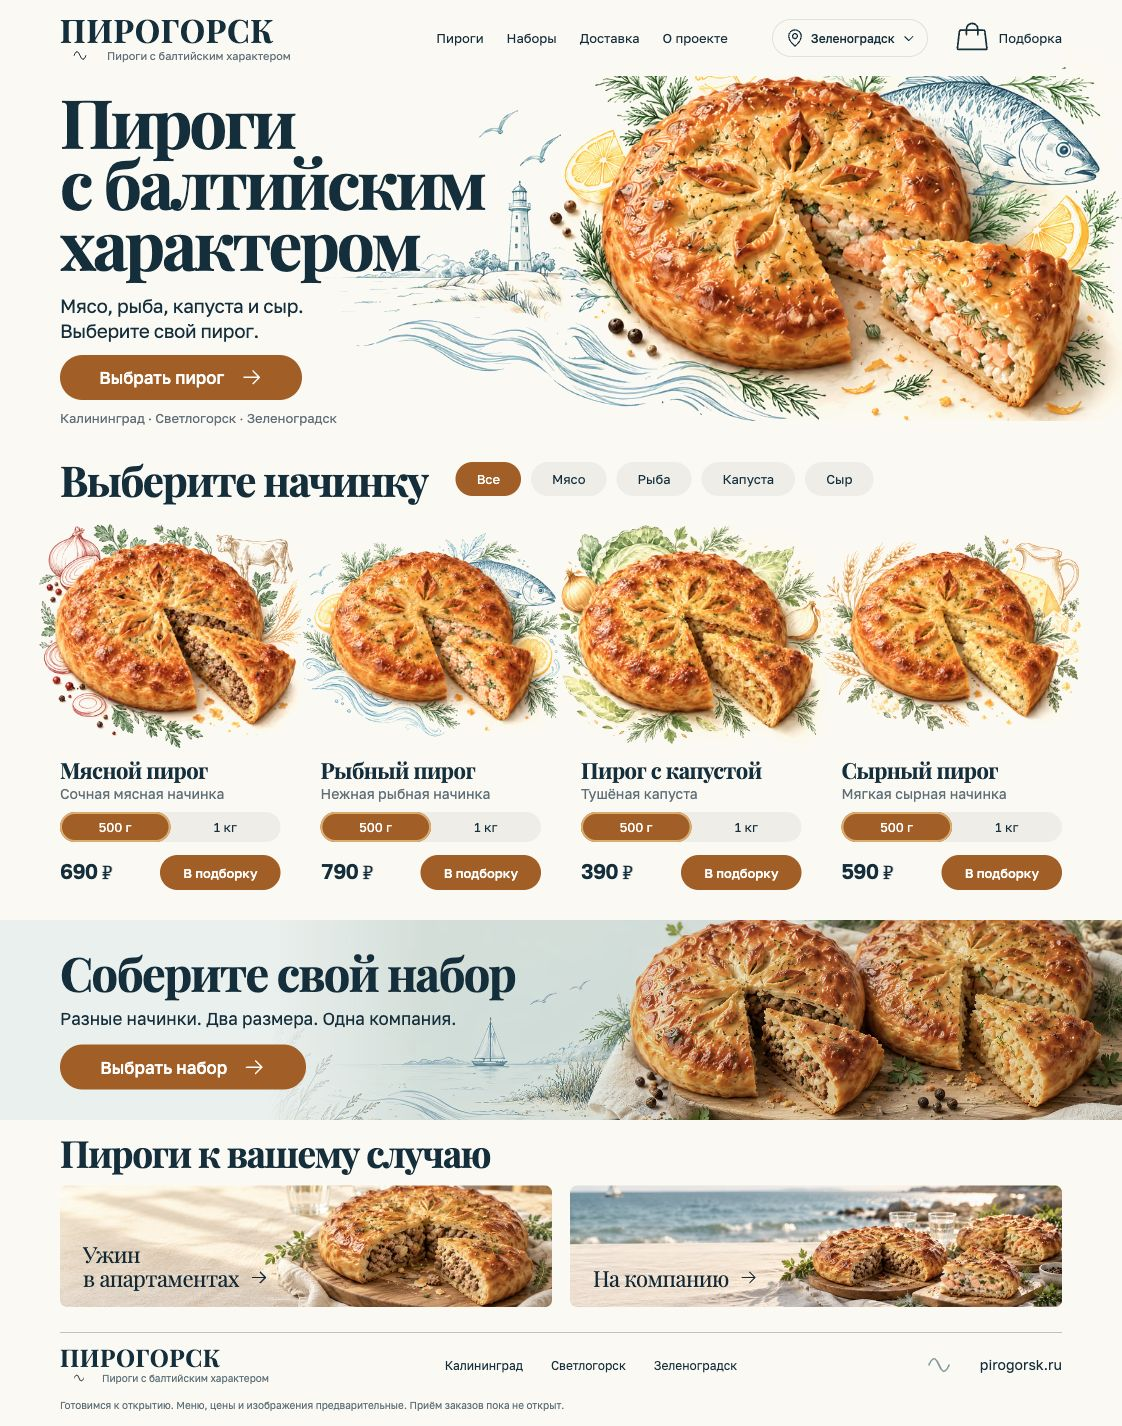
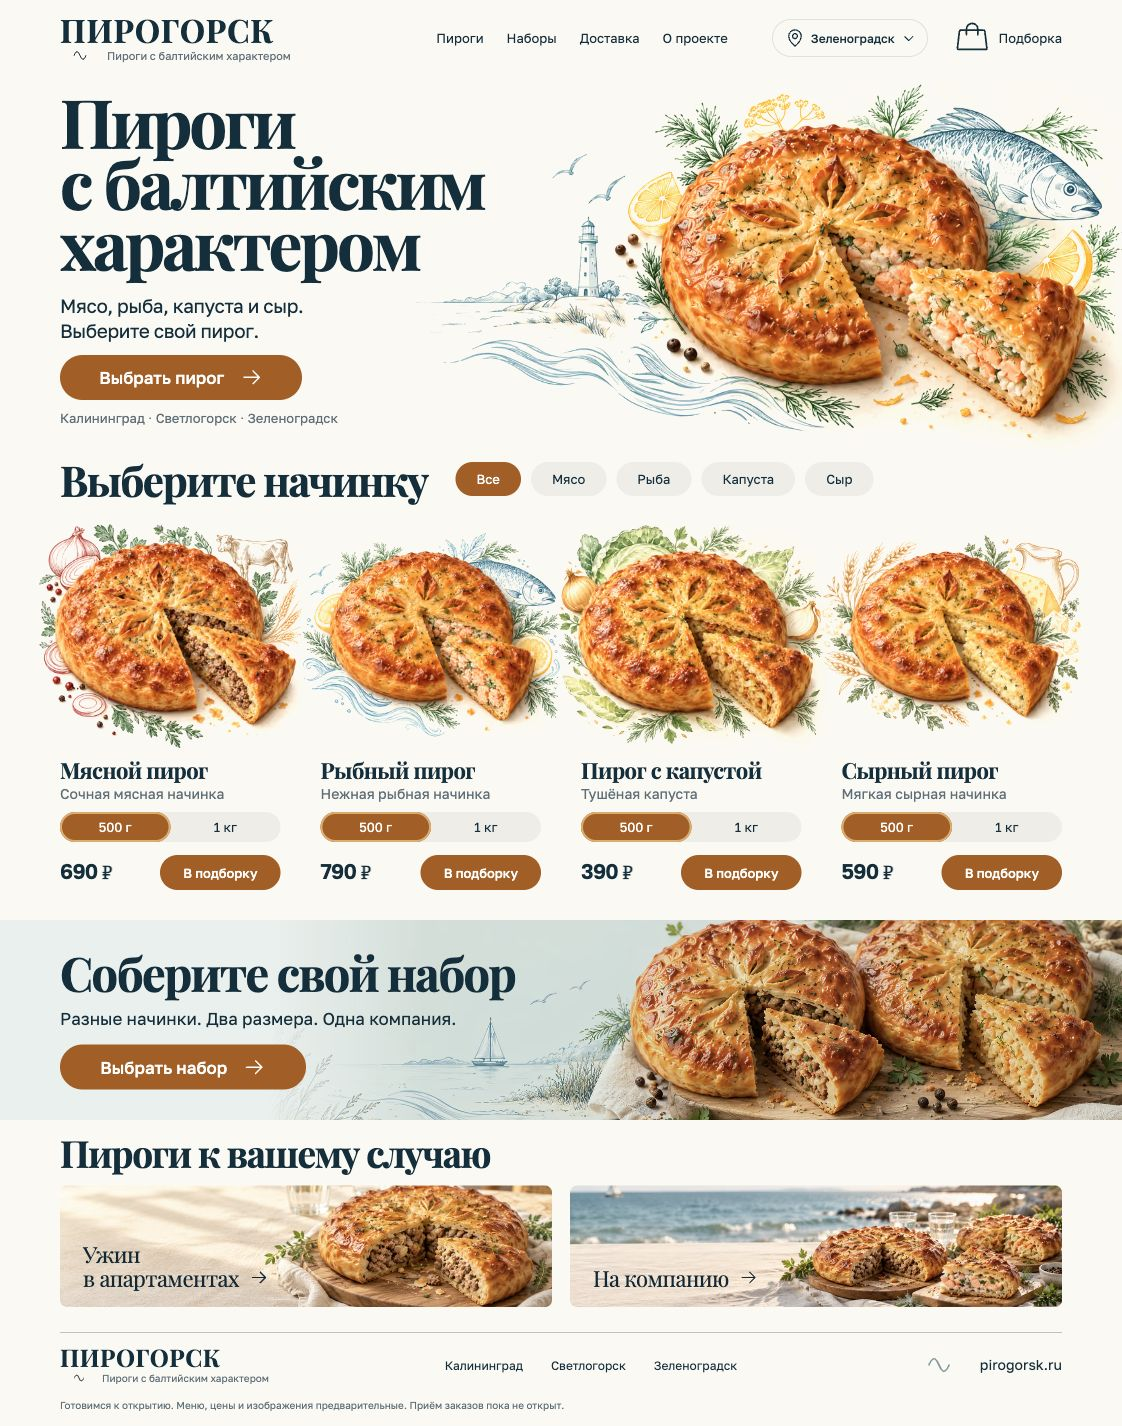
Keep hero pie fully visible across desktop sizes

Changed region(s): [[0.3119, 0.0309, 0.9982, 0.3086], [0.2807, 0.5863, 0.3431, 0.6171], [0.2496, 0.2777, 0.2807, 0.3086]]

diff --git a/src/styles/global.css b/src/styles/global.css
@@ -6,7 +6,7 @@
 :root{--paper:#fbf9f4;--ink:#082f3c;--muted:#5b7079;--amber:#ad5a12;--amber-hover:#994a10;--soft:#f0ede7;--line:#e3e0d8;--sea:#e9f0ed;--serif:Playfair,Georgia,'Times New Roman',serif;--sans:Golos,Arial,sans-serif;color:var(--ink);background:var(--paper);font-family:var(--sans);font-synthesis:none;scroll-behavior:smooth;scroll-padding-top:28px}
 *{box-sizing:border-box}body{margin:0}button,input,textarea{font:inherit}button,a{-webkit-tap-highlight-color:transparent}button{color:inherit;cursor:pointer}button{border:0}a{color:inherit;text-decoration:none}img{display:block;max-width:100%;height:auto}button:disabled{cursor:default}button:focus-visible,a:focus-visible,input:focus-visible{outline:3px solid #347787;outline-offset:4px}h1,h2,h3,p{margin:0}h1,h2,h3{font-family:var(--serif)}button{background:none}.container{width:min(1280px,calc(100% - 120px));margin-inline:auto}.icon{display:inline-flex;align-items:center;justify-content:center;width:1.25em;height:1.25em;flex-shrink:0;vertical-align:middle}.icon svg{display:block;width:100%;height:100%;fill:currentColor}.sr-only{position:absolute;width:1px;height:1px;overflow:hidden;clip-path:inset(50%);white-space:nowrap}.skip-link{position:fixed;z-index:20;top:-80px;left:20px;background:var(--ink);color:white;padding:14px 20px;border-radius:8px}.skip-link:focus{top:12px}
 .site-header{height:76px;display:flex;align-items:center;justify-content:space-between;gap:24px;position:relative;z-index:2;background:var(--paper)}.brand{display:flex;flex-direction:column;flex-shrink:0}.brand-name{font-family:var(--serif);font-size:34px;line-height:1.1;font-weight:700;letter-spacing:.025em}.brand-tagline{display:flex;align-items:center;gap:7px;color:var(--muted);font-size:12px;white-space:nowrap;line-height:1.5}.brand-tagline .icon{width:40px;height:15px;color:var(--ink)}.main-nav{display:flex;align-items:center;gap:30px;margin-left:auto;font-size:13px;white-space:nowrap}.main-nav button{padding:8px 0;font-size:inherit}.main-nav a,.main-nav button{transition:color .15s}.main-nav a:hover,.main-nav button:hover{color:var(--amber-hover)}.header-actions{display:flex;align-items:center;gap:32px;margin-left:28px}.city-trigger{border:1px solid var(--line);border-radius:30px;min-height:38px;padding:7px 12px;display:flex;gap:6px;align-items:center;font-size:12px;font-weight:500;white-space:nowrap}.city-trigger>.icon:first-child{font-size:16px}.city-trigger>.icon:last-child{font-size:10px;margin-left:2px}.city-trigger:hover{border-color:var(--muted)}.selection-trigger{display:flex;align-items:center;gap:8px;padding:5px 0;font-size:13px;min-height:44px}.bag-wrap{position:relative;display:flex;font-size:29px}.bag-count{position:absolute;right:-5px;top:-2px;font-size:10px;background:var(--amber);color:#fff;min-width:16px;height:16px;border-radius:10px;display:grid;place-items:center;padding:0 3px}.bag-count[hidden]{display:none}
-.hero{position:relative;min-height:365px;padding-top:14px}.hero-content{position:relative;z-index:1;pointer-events:none;width:53%;padding-bottom:10px}.hero-content a{pointer-events:auto}h1{font-size:clamp(56px,6vw,85px);line-height:.91;letter-spacing:-.045em;font-weight:700;margin-bottom:19px}.hero-description{font-size:19px;line-height:1.32;letter-spacing:-.02em;margin-bottom:12px}.button{display:inline-flex;align-items:center;justify-content:center;gap:16px;background:var(--amber);color:white;border-radius:40px;min-height:45px;padding:10px 29px;font-weight:500;font-size:17px;line-height:1.2;transition:background .16s,transform .16s}.button:hover{background:var(--amber-hover);transform:translateY(-1px)}.button:active{transform:translateY(0)}.button .icon{font-size:18px}.hero-cta{min-width:242px}.hero-cities{font-size:13px;color:var(--muted);margin-top:9px;line-height:1.4}.hero-art{position:absolute;z-index:0;top:-65px;right:-60px;width:81%;height:410px;overflow:hidden;pointer-events:none;mix-blend-mode:multiply;filter:brightness(1.065) saturate(1.07)}.hero-art picture{display:block;width:100%;height:100%}.hero-art img{position:absolute;width:100%;height:auto;top:-7%;right:0;max-width:none}
+.hero{position:relative;min-height:365px;padding-top:14px}.hero-content{position:relative;z-index:1;pointer-events:none;width:53%;padding-bottom:10px}.hero-content a{pointer-events:auto}h1{font-size:clamp(56px,6vw,85px);line-height:.91;letter-spacing:-.045em;font-weight:700;margin-bottom:19px}.hero-description{font-size:19px;line-height:1.32;letter-spacing:-.02em;margin-bottom:12px}.button{display:inline-flex;align-items:center;justify-content:center;gap:16px;background:var(--amber);color:white;border-radius:40px;min-height:45px;padding:10px 29px;font-weight:500;font-size:17px;line-height:1.2;transition:background .16s,transform .16s}.button:hover{background:var(--amber-hover);transform:translateY(-1px)}.button:active{transform:translateY(0)}.button .icon{font-size:18px}.hero-cta{min-width:242px}.hero-cities{font-size:13px;color:var(--muted);margin-top:9px;line-height:1.4}.hero-art{position:absolute;z-index:0;top:-35px;right:-60px;width:81%;height:450px;overflow:hidden;pointer-events:none;mix-blend-mode:multiply;filter:brightness(1.065) saturate(1.07)}.hero-art picture{display:block;width:100%;height:100%}.hero-art img{position:absolute;width:100%;height:100%;object-fit:contain;object-position:right center;top:0;right:0;max-width:none}
 .catalog{padding:14px 0 30px;position:relative}.catalog-top{display:flex;align-items:center;gap:28px;margin-bottom:13px}h2{font-size:43px;line-height:1.15;font-weight:700;letter-spacing:-.035em}.filters{display:flex;gap:10px;align-items:center}.filters button{min-height:34px;border-radius:30px;padding:8px 22px;background:var(--soft);font-size:13px;line-height:1.2;transition:background .15s,color .15s}.filters button[aria-pressed=true]{background:var(--amber);color:white}.filters button:hover:not([aria-pressed=true]){background:#e6e3dc}.product-grid{display:grid;grid-template-columns:repeat(4,minmax(0,1fr));gap:40px}.product-card{min-width:0}.product-card[hidden]{display:none}.product-card>picture{display:block;margin-inline:-24px}.product-image{width:calc(100% + 0px);aspect-ratio:1.13;object-fit:contain;mix-blend-mode:multiply;filter:brightness(1.065) saturate(1.07)}.product-card h3{font-size:22px;font-weight:700;line-height:1.25;letter-spacing:-.025em;white-space:nowrap}.product-description{font-size:14px;color:var(--muted);line-height:1.5;margin:0 0 8px;white-space:nowrap}.weight-switch{display:flex;min-width:0;padding:0;border:0;border-radius:30px;background:var(--soft);margin:0 0 13px;height:30px}.weight-switch label{position:relative;flex:1;cursor:pointer}.weight-switch input{position:absolute;opacity:0;width:100%;height:100%;inset:0;margin:0;cursor:pointer}.weight-switch span{display:flex;align-items:center;justify-content:center;border-radius:30px;height:30px;font-size:13px;transition:background .15s,color .15s}.weight-switch input:checked+span{background:var(--amber);color:#fff;box-shadow:inset 0 0 0 2px #e3ab65}.weight-switch input:focus-visible+span{outline:3px solid #347787;outline-offset:3px}.product-bottom{display:flex;align-items:center;justify-content:space-between;gap:12px}.product-price{font-size:21px;font-weight:600;white-space:nowrap;letter-spacing:-.035em;font-variant-numeric:tabular-nums}.button-small{min-height:35px;padding:8px 26px;font-size:13px;gap:4px}.added-icon{display:none}.button-small.added .added-icon{display:inline-flex;font-size:14px}.button-small.added{padding-inline:18px;background:#426d5c}
 .bundle-section{position:relative;background:var(--sea);min-height:200px;overflow:hidden}.bundle-art{position:absolute;top:0;right:0;width:76%;height:100%;object-fit:cover;object-position:right center;mix-blend-mode:multiply;mask-image:linear-gradient(to right,transparent,#000 18%)}.bundle-content{position:relative;padding-top:25px;padding-bottom:25px}.bundle-content h2{font-size:47px;margin-bottom:7px}.bundle-content p{font-size:17px;line-height:1.5;margin-bottom:13px}.bundle-content .button{min-width:246px}.occasions{padding-top:11px;padding-bottom:25px}.occasions h2{font-size:37px;margin-bottom:12px}.occasion-grid{display:grid;grid-template-columns:1fr 1fr;gap:18px}.occasion-card{padding:0;position:relative;display:block;overflow:hidden;border-radius:7px;min-width:0;text-align:left;background:#eee5d6;isolation:isolate}.occasion-card picture{display:block;aspect-ratio:4.05}.occasion-card img{width:100%;height:100%;object-fit:cover;transition:transform .35s}.occasion-card:hover img{transform:scale(1.025)}.occasion-card>span{position:absolute;bottom:17px;left:23px;font-family:var(--serif);font-size:22px;line-height:1.1;letter-spacing:-.025em;color:#082936}.occasion-card>span>.icon{width:22px;height:19px;margin-left:9px;vertical-align:baseline}.site-footer{border-top:1px solid #b9c3c5;padding-top:11px;padding-bottom:14px}.footer-main{display:flex;align-items:center;justify-content:space-between;gap:20px}.brand-footer .brand-name{font-size:24px}.brand-footer .brand-tagline{font-size:10px;gap:4px}.brand-footer .brand-tagline .icon{width:38px;height:12px}.footer-cities{display:flex;gap:28px;font-size:12px}.footer-cities button{padding:8px 0}.footer-cities button:hover{color:var(--amber-hover)}.footer-domain{display:flex;align-items:center;gap:15px;font-size:14px}.footer-domain .icon{width:52px;height:25px;color:#7d99a1}.launch-note{font-size:10px;line-height:1.5;color:var(--muted);margin-top:12px}
 .dialog{background:var(--paper);color:var(--ink);border:1px solid var(--line);border-radius:22px;padding:28px;width:min(520px,calc(100vw - 32px));max-height:calc(100dvh - 40px);overflow:auto;box-shadow:0 20px 100px #082f3c20}.dialog::backdrop{background:#082f3c70}.dialog[open]{animation:dialog-in .2s ease-out}body:has(dialog[open]){overflow:hidden}.dialog-header{display:flex;align-items:center;justify-content:space-between;gap:12px;margin-bottom:12px}.eyebrow{font-size:11px;letter-spacing:.05em;text-transform:uppercase;color:var(--muted)}.icon-button{display:inline-flex;align-items:center;justify-content:center;width:40px;height:40px;border-radius:50%;background:var(--soft);flex-shrink:0}.icon-button:hover{background:#e6e1d7}.icon-button .icon{font-size:18px}.dialog h2{font-size:35px;line-height:1.1;margin-bottom:15px}.dialog-intro{color:var(--muted);font-size:14px;line-height:1.6;margin-bottom:23px}.city-options{display:grid;gap:10px}.city-options>button{display:flex;align-items:center;text-align:left;padding:17px 18px;gap:12px;border:1px solid var(--line);border-radius:12px;font-size:17px}.city-options>button:hover{border-color:var(--amber)}.city-options>button[aria-pressed=true]{border-color:var(--amber);background:#f8edde}.city-check{margin-left:auto;opacity:0;color:var(--amber-hover)}[aria-pressed=true]>.city-check{opacity:1}.selection-dialog{width:min(570px,calc(100vw - 32px))}.empty-selection{padding:35px 12px 28px;text-align:center}.empty-selection>p:first-child{font-family:var(--serif);font-size:26px;margin-bottom:10px}.empty-selection p+p{font-size:14px;color:var(--muted);line-height:1.6;margin-bottom:22px}.selection-item{display:grid;grid-template-columns:1fr auto;gap:7px 14px;padding:18px 0;border-bottom:1px solid var(--line)}.selection-item h3{font-size:22px;line-height:1.2}.selection-item small{font-size:12px;color:var(--muted)}.item-details{display:flex;align-items:center;gap:8px}.item-controls{display:flex;align-items:center;gap:4px}.item-controls button{width:36px;height:36px;border-radius:50%;background:var(--soft);display:grid;place-items:center}.item-controls button:hover{background:#e7dfd2}.item-controls .icon{font-size:15px}.item-controls output{min-width:25px;text-align:center;font-size:14px}.item-price{align-self:center;justify-self:end;font-weight:600;white-space:nowrap}.item-remove{font-size:11px;color:var(--muted);text-decoration:underline;text-underline-offset:3px;padding:6px 0}.selection-summary{padding-top:20px}.selection-total{display:flex;justify-content:space-between;align-items:center;font-size:17px}.selection-total strong{font-size:26px;letter-spacing:-.04em}.selection-weight{font-size:12px;color:var(--muted);margin:5px 0 20px}.copy-selection{width:100%;font-size:15px;gap:10px}.selection-note{font-size:12px;line-height:1.7;color:var(--muted);margin-top:20px}.copy-fallback{width:100%;min-height:150px;border:1px solid var(--line);padding:10px;background:var(--paper);color:var(--ink);font-size:13px;margin-top:15px}.preset-option{display:flex;align-items:center;justify-content:space-between;gap:12px;text-align:left;border:1px solid var(--line);border-radius:12px;width:100%;padding:18px 16px;margin-bottom:12px}.preset-option:hover{border-color:var(--amber);background:#f8edde}.preset-option strong{font-size:16px;font-weight:500;display:block;margin-bottom:6px}.preset-option small{font-size:12px;color:var(--muted);display:block}.preset-option>span:last-child{white-space:nowrap;font-weight:500;font-size:14px}.preset-option .icon{margin-left:8px}.text-button{display:flex;align-items:center;justify-content:center;gap:10px;font-size:14px;text-decoration:underline;text-underline-offset:4px;margin:20px auto 0;padding:8px}.info-dialog>p:not(.dialog-intro){font-size:14px;line-height:1.8;margin:12px 0;color:var(--muted)}.info-dialog>.button{font-size:15px;margin-top:15px}.toast{position:fixed;z-index:10;left:50%;bottom:24px;transform:translate(-50%,16px);border-radius:40px;background:var(--ink);color:#fff;font-size:13px;padding:13px 22px;box-shadow:0 8px 30px #082f3c25;opacity:0;pointer-events:none;max-width:calc(100vw - 32px);white-space:nowrap;transition:opacity .2s,transform .2s}.toast.visible{opacity:1;transform:translate(-50%,0)}

diff --git a/design-qa.md b/design-qa.md
@@ -33,7 +33,8 @@
 2. Mobile-проход: выровнены высоты названий и описаний, увеличены области выбора веса; информационные действия доступны в подвале при скрытии основной навигации.
 3. Проверка 320 px обнаружила горизонтальный выход шапки до 329 px и неудачный перенос hero. Уменьшен логотип, скрыт декоративный значок города, скорректирован размер заголовка. Финальная ширина документа — 320 px, горизонтального выхода нет; сегменты веса стоят на одной линии.
 4. Проверка доступности: усилен контраст вторичного текста и кнопок; доступное имя кнопки подборки начинается с её видимого названия. Финальный Lighthouse Accessibility — 100 в обоих профилях.
-5. Последнее сравнение полного desktop, двух mobile и увеличенного каталога: незакрытых P0/P1/P2 замечаний не осталось. Дополнительная строка о подготовке к открытию и более тёмный акцент — осознанные изменения.
+5. Дополнительный просмотр на 1280 px выявил жёсткую обрезку нижнего края hero. Изображение вписано целиком через `object-fit: contain`, скорректированы высота и положение. Повторно просмотрены 1122, 1280, 1440 и 768 px; после изменения mobile и desktop Lighthouse сохранили все оценки 100.
+6. Последнее сравнение полного desktop, двух mobile и увеличенного каталога: незакрытых P0/P1/P2 замечаний не осталось. Дополнительная строка о подготовке к открытию и более тёмный акцент — осознанные изменения.
 
 ## Функциональные сценарии
 

diff --git a/PERFORMANCE.md b/PERFORMANCE.md
@@ -1,6 +1,6 @@
 # Скорость production-сборки
 
-Финальная проверка: **23 октября 2026, 20:41 Europe/Kaliningrad**. Lighthouse **13.5.0**, production preview `http://127.0.0.1:4322/` после `npm run check` и `npm run build`.
+Финальная проверка: **23 октября 2026, 20:46 Europe/Kaliningrad**. Lighthouse **13.5.0**, production preview `http://127.0.0.1:4322/` после `npm run check` и `npm run build`.
 
 | Категория | Mobile | Desktop |
 | --- | ---: | ---: |
@@ -16,7 +16,7 @@
 | Speed Index | 0,9 с | 0,2 с |
 | Total Blocking Time | 0 мс | 0 мс |
 | Cumulative Layout Shift | 0 | 0 |
-| Передано в ходе аудита | 297 981 байт | 360 881 байт |
+| Передано в ходе аудита | 297 982 байт | 360 882 байт |
 | Запросов | 15 | 15 |
 
 ## Условия и воспроизведение
@@ -42,8 +42,8 @@ npm run audit:performance -- https://pirogorsk.ru/
 
 Последние сырые отчёты сохранены локально и исключены из Git:
 
-- [Mobile HTML](qa/lighthouse-mobile.html), [JSON](qa/lighthouse-mobile.json): `2026-10-23T18:41:35.950Z`.
-- [Desktop HTML](qa/lighthouse-desktop.html), [JSON](qa/lighthouse-desktop.json): `2026-10-23T18:41:41.411Z`.
+- [Mobile HTML](qa/lighthouse-mobile.html), [JSON](qa/lighthouse-mobile.json): `2026-10-23T18:46:42.297Z`.
+- [Desktop HTML](qa/lighthouse-desktop.html), [JSON](qa/lighthouse-desktop.json): `2026-10-23T18:46:47.844Z`.
 - [Сводка JSON](qa/performance-summary.json).
 
 ## Что обеспечивает результат
